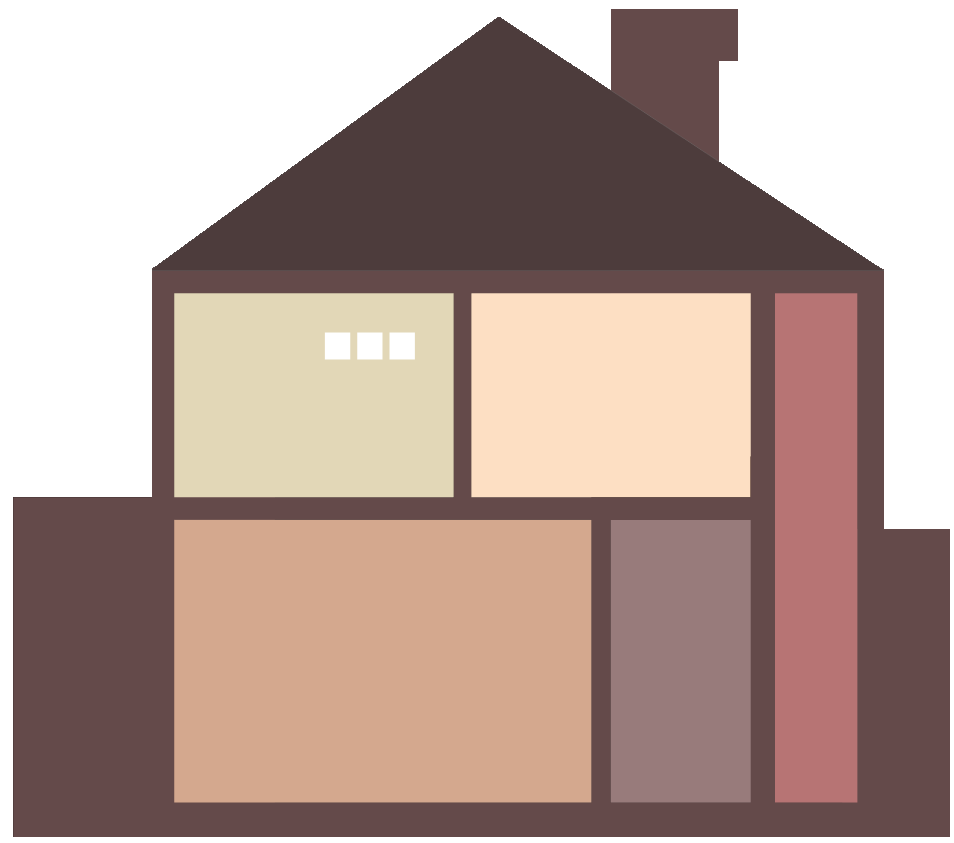
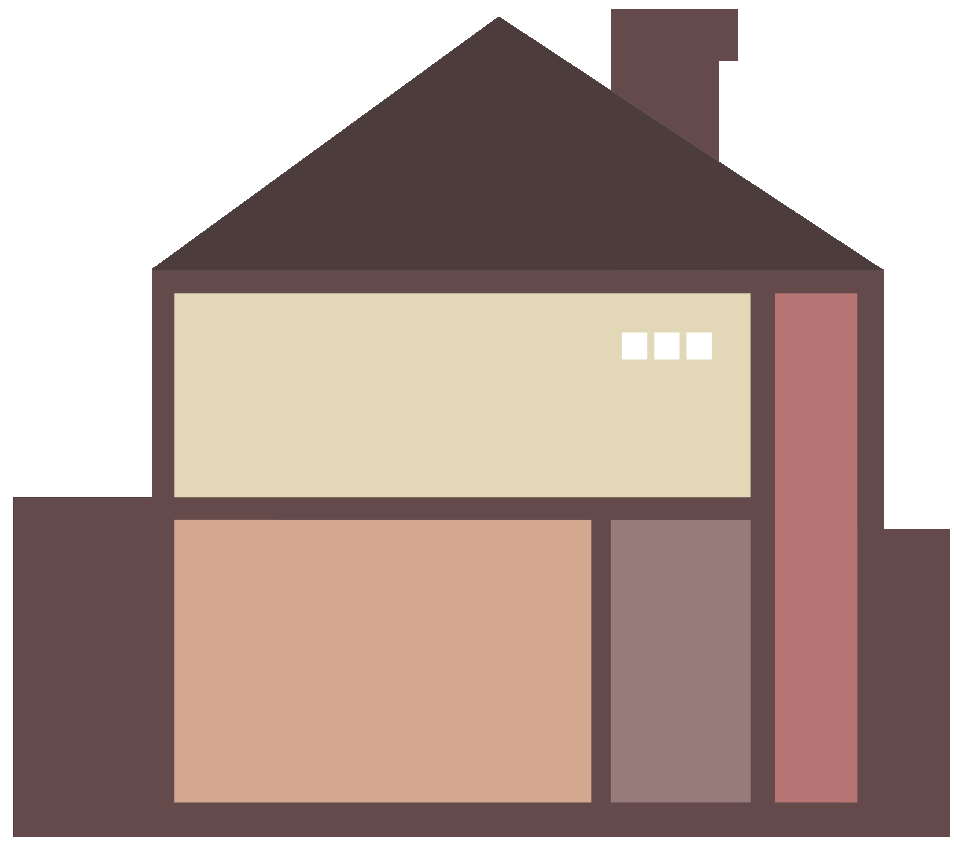
Updated Liminal title page, improved intro sequence and audio, and the house now has one wide first floor

Changed region(s): [[0.3344, 0.3393, 0.7904, 0.6168]]

diff --git a/play/liminal/Liminal.html b/play/liminal/Liminal.html
@@ -25,13 +25,24 @@ redirect_from:
 <div class="clickableHouseWrapper" style=" left: 55%; top: 15%; width: 40%">
   <img src="images/LiminalHouse.png" alt="image" class="responsive" />
   <!-- <img src="images/LiminalHouse.png" alt="image"  width="475" height="420" /> -->
-  <a href="Bedroom.html" style="left: 18.5%; top: 34.75%;  width: 29%; height: 24%;"></a> <!-- Top left -->
+  <!-- <a href="Bedroom.html" style="left: 18.5%; top: 34.75%;  width: 29%; height: 24%;"></a> Top left -->
   <!-- <a href="ego_beta.html" style="left: 49.5%; top: 34.75%; width: 29%; height: 24%;"></a> Top right -->
+  <a href="Bedroom.html" style="left: 18.5%; top: 34.75%;  width: 60%; height: 24%;"></a> <!-- TOP -->
   <a href="Library.html" style="left: 18.5%; top: 61.5%;  width: 43.5%; height: 33.75%;"></a> <!-- Bottom left -->
   <a href="ShoeCloset.html" style="left: 64%; top: 61.5%;  width: 14.5%; height: 33.75%;"></a> <!-- Bottom right -->
   <a href="Staircase.html" style="left: 81.25%; top: 34.75%;  width: 8.5%; height: 60.5%;"></a> <!-- Right staircase -->
 </div>
 
+
+<!-- <audio id="intro_player" src="audio/liminal_intro.mp3"></audio> -->
+<audio id="intro_player" src="audio/liminal_intro.mp3" autostart="0" autostart="false" preload ="none" name="media">
+<!-- <audio src="audio/liminal_intro.mp3" autoplay></audio> -->
+
+
+<script>
+  var intro_player = document.getElementById('intro_player');
+  var LOADED = false;
+</script>
 
 <tw-storydata name="Liminal" startnode="1" creator="Twine" creator-version="2.3.9" ifid="F97187F6-0135-40AE-93DB-08415A2ED469" zoom="1" format="Harlowe" format-version="3.1.0" options="" hidden><style role="stylesheet" id="twine-user-stylesheet" type="text/twine-css">
 tw-icon.undo {
@@ -91,32 +102,17 @@ body.light-theme tw-passage {
 </style>
 
 
-<script role="script" id="twine-user-script" type="text/twine-javascript"></script><tw-passagedata pid="1" name="Liminal - Monolith" tags="" position="323,40.5" size="100,100">&lt;h1&gt;L I M I N A L&lt;/h1&gt;
+<script role="script" id="twine-user-script" type="text/twine-javascript">
+  var intro_player = document.getElementById('intro_player');
+  var LOADED = false;
+</script>
+
+
+<tw-passagedata pid="1" name="Liminal - Monolith" tags="" position="144,31.5" size="100,100">&lt;h1&gt;L I M I N A L&lt;/h1&gt;
   [[Credits-&gt;Liminal - Credits M]]
-
-
-  (link: &quot;&lt;h3&gt;Escape the Cold&lt;/h3&gt;&quot;)[The door creaks as you push it open and step inside. A narrow slice of the dark interior is illuminated by the porch light behind you.
   
-  A brown bearskin rug hugs the floor. Behind it stands a tall wooden desk. A service bell glints in the light next to a faded lampshade.
   
-  (link: &quot;\&quot;Hello?\&quot;&quot;)[&quot;Hello?&quot; No response.
-  
-  Snow flies into the room, carried by a gust of wind. You shield your face and (link: &quot;push the door shut.&quot;)[push the door shut.
-  
-  Enveloped in darkness, you feel your way towards the lamp.
-  
-  Your footsteps against the cold floor echo through an unknown space. Three paces in, they soften to a light crunch.
-  
-  Hardwood meets your outstretched hand, and you (link: &quot;search blindly for the cord.&quot;)[search blindly for the cord.
-  
-  Cool metal meets your fingertips. A few inches up, you find the beaded cord and (link: &quot;give it a firm pull.&quot;)[give it a firm pull.
-  
-  &lt;i&gt;(Click on a room to continue)&lt;/i&gt;&lt;script&gt;document.body.classList.add(&quot;light-theme&quot;);&lt;/script&gt;]]]]
-  <audio src="audio/liminal_intro.mp3" autoplay></audio>]
-  <script>document.getElementsByClassName('clickableHouseWrapper')[0].style.visibility = 'visible';</script>
-</tw-passagedata>
-
-<tw-passagedata pid="8" name="Liminal - Credits M" tags="" position="826,129.5" size="100,100">Helena Yang
+  [[&lt;h3&gt;Escape the Cold&lt;/h3&gt;-&gt;Liminal - Monolith1]] &lt;script&gt;document.getElementsByClassName(&#39;clickableHouseWrapper&#39;)[0].style.visibility = &#39;visible&#39;;&lt;/script&gt;</tw-passagedata><tw-passagedata pid="2" name="Liminal - Credits M" tags="" position="816,131.5" size="100,100">Helena Yang
   George Whitfield
   Catherine Wang
   Nellie Tonev
@@ -125,67 +121,50 @@ body.light-theme tw-passage {
   Grace Li
   Hayoon Choi
   Dominic Calkosz
+  
+  [[Back-&gt;Liminal - Monolith]] &lt;script&gt;document.getElementsByClassName(&#39;clickableHouseWrapper&#39;)[0].style.visibility = &#39;hidden&#39;;&lt;/script&gt;	</tw-passagedata><tw-passagedata pid="3" name="Liminal - Monolith2" tags="" position="147,365.5" size="100,100">&lt;h1&gt;L I M I N A L&lt;/h1&gt;
+  
+  
+  
+  No response.
+  
+  Snow flies into the room, carried by a gust of wind. You shield your face and [[push the door shut-&gt;Liminal - Monolith3]].</tw-passagedata><tw-passagedata pid="4" name="Liminal - Monolith3" tags="" position="143,526.5" size="100,100">&lt;h1&gt;L I M I N A L&lt;/h1&gt;
+  
+  
+  
+  Enveloped in darkness, you feel your way towards the lamp.
+  
+  Your footsteps against the cold floor echo through an unknown space. Three paces in, they soften to a light crunch.
+  
+  Hardwood meets your outstretched hand, and you [[search blindly for the cord-&gt;Liminal - Monolith4]].</tw-passagedata><tw-passagedata pid="5" name="Liminal - Monolith4" tags="" position="143,696.5" size="100,100">&lt;h1&gt;L I M I N A L&lt;/h1&gt;
+  
+  
+  
+  Cool metal meets your fingertips. A few inches up, you find the beaded cord and [[give it a firm pull-&gt;Liminal - Monolith5]].</tw-passagedata><tw-passagedata pid="6" name="Liminal - Monolith5" tags="" position="145,851.5" size="100,100">&lt;h1&gt;L I M I N A L&lt;/h1&gt;
+  
+  
+  
+  &lt;i&gt;(Click on a room to continue)&lt;/i&gt;&lt;script&gt;document.body.classList.add(&quot;light-theme&quot;);&lt;/script&gt;</tw-passagedata><tw-passagedata pid="7" name="Liminal - Monolith1" tags="" position="145,193" size="100,100">&lt;h1&gt;L I M I N A L&lt;/h1&gt;
+  
+  
+  
+  The door creaks as you push it open and step inside. A narrow slice of the dark interior is illuminated by the porch light behind you.
+  
+  A brown bearskin rug hugs the floor. Behind it stands a tall wooden desk. A service bell glints in the light next to a faded lampshade.
+  
+  [[&quot;Hello?&quot;-&gt;Liminal - Monolith2]]
+  <script>
+    if (LOADED) {
+      intro_player.play();
+    }
+  </script>
+</tw-passagedata></tw-storydata>
 
-  <script>document.getElementsByClassName('clickableHouseWrapper')[0].style.visibility = 'hidden';</script>	
-  [[Back-&gt;Liminal - Monolith]]
 
-  <!-- Clickable house
-  <div class="clickableHouseWrapper" style=" left:40%; top: 12%; width: 50%">
-    <img src="images/LiminalHouse.png" alt="image" class="responsive" />
-    <a href="first_floof.html" style="left: 18%; top: 35%;  width: 30%; height: 23%;"></a>
-    <a href="ego_beta.html" style="left: 49.5%; top: 34%; width: 29%; height: 24.5%;"></a>
-  </div>
-  -->
-</tw-passagedata>
+<script>
+  var LOADED = true;
+</script> 
 
-
-<tw-passagedata pid="2" name="Liminal - Entrance" tags="" position="317,191.5" size="100,100">  
-The door creaks as you push it open and step inside. A narrow slice of the dark interior is illuminated by the porch light behind you.
-
-A brown bearskin rug hugs the floor. Behind it stands a tall wooden desk. A service bell glints in the light next to a faded lampshade.
-
-{(live: 3s)[ &quot;Hello?&quot; ] }
-
-{(live: 7s)[ No response. ] }
-
-{(live: 9s)[ 
-Snow flies into the room, carried by a gust of wind. You shield your face and [[push the door shut-&gt;Liminal - Entrance 2]].
-] }
-
-<audio src="audio/liminal_intro.mp3" autoplay>
-<script>document.getElementsByClassName('clickableHouseWrapper')[0].style.visibility = 'hidden';</script>	
-
-</tw-passagedata>
-
-
-
-<tw-passagedata pid="3" name="Liminal - Credits" tags="" position="134,141.5" size="100,100">Helena Yang
-George Whitfield
-Catherine Wang
-Nellie Tonev
-An Tang
-Chelsea Liu
-Grace Li
-Hayoon Choi
-Dominic Calkosz
-
-<script>document.getElementsByClassName('clickableHouseWrapper')[0].style.visibility = 'hidden';</script>	
-
-[[Back-&gt;Liminal - Title]]</tw-passagedata><tw-passagedata pid="4" name="Liminal - Entrance 2" tags="" position="318,341.5" size="100,100">Enveloped in darkness, you feel your way towards the lamp.
-
-Your footsteps against the cold floor echo through an uknown space. Three paces in, they soften to a light crunch.
-
-Hardwood meets your outstretched hand, and you [[search blindly for the cord-&gt;Liminal - Entrance 3]].</tw-passagedata><tw-passagedata pid="5" name="Liminal - Entrance 3" tags="" position="317,491.5" size="100,100">As your hand bumps cold metal, a bright *ding* pierces the silence and hangs in the air.
-
-{(live: 3s)[ Steadily, it returns to silence. ] }
-
-{(live: 5s)[ 
-You search further to the right, and finally feel the base of the lamp. A few inches up you find the beaded cord and [[give it a firm pull-&gt;Liminal - Entrance 4]].
-] }</tw-passagedata><tw-passagedata pid="6" name="Liminal - Entrance 4" tags="" position="317,641.5" size="100,100">You block the light from your eyes as they adjust.
-
-(*Description of entrance goes here. Perhaps the Horror group&#39;s story goes here, if there are shoes in the entrance*)
-
-(*You can see a bit of the next room over. This is someone else&#39;s room*)</tw-passagedata></tw-storydata>
 
 <script title="Twine engine code" data-main="harlowe">"use strict";function _defineProperty(e,t,n){return t in e?Object.defineProperty(e,t,{value:n,enumerable:!0,configurable:!0,writable:!0}):e[t]=n,e}function _toConsumableArray(e){if(Array.isArray(e)){for(var t=0,n=Array(e.length);t<e.length;t++)n[t]=e[t];return n}return Array.from(e)}var _slicedToArray=function(){function e(e,t){var n=[],r=!0,i=!1,o=void 0;try{for(var a,s=e[Symbol.iterator]();!(r=(a=s.next()).done)&&(n.push(a.value),!t||n.length!==t);r=!0);}catch(e){i=!0,o=e}finally{try{!r&&s.return&&s.return()}finally{if(i)throw o}}return n}return function(t,n){if(Array.isArray(t))return t;if(Symbol.iterator in Object(t))return e(t,n);throw new TypeError("Invalid attempt to destructure non-iterable instance")}}(),_typeof="function"==typeof Symbol&&"symbol"==typeof Symbol.iterator?function(e){return typeof e}:function(e){return e&&"function"==typeof Symbol&&e.constructor===Symbol&&e!==Symbol.prototype?"symbol":typeof e};!function(){/**
  * @license almond 0.3.3 Copyright jQuery Foundation and other contributors.
